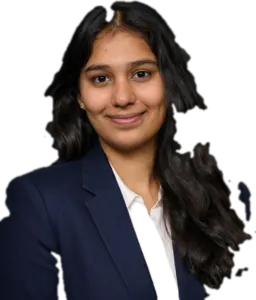
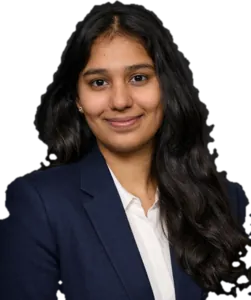
Stop the cut-out eating her hair
The background removal keyed on colour, and colour cannot separate
these two: the studio backdrop sits at luminance 11-26 and her hair at
3-57, so the ranges overlap almost completely. The fill walked into the
hair and took chunks out of it.

Three tests now have to agree before a pixel counts as backdrop:

  neutral  grey backdrop vs navy blazer and warm skin
  dark     capped at 70, which also stopped a leak into the white shirt
  smooth   backdrop roughness measures 1-2, hair 4-27 - this is the one
           that actually saves the hair

A close pass tidies the remaining nicks. Saved as tools-make-cutout.py
so the cut-out can be regenerated rather than being a one-off file.

diff --git a/tools-make-cutout.py b/tools-make-cutout.py
@@ -1,0 +1,82 @@
+# -*- coding: utf-8 -*-
+"""Lift the subject out of images/user.jpg into a transparent cut-out.
+
+Colour alone cannot do it: the studio backdrop (luminance 11-26) and her
+hair (3-57) overlap almost entirely. Three tests together can -
+
+  neutral   the backdrop is grey; the blazer is navy and skin is warm
+  dark      the backdrop never exceeds ~26, so a cap keeps the white
+            shirt out of the fill
+  smooth    the backdrop is a smooth gradient (roughness 1-2) while hair
+            is textured (4-27), which is what saves the hair
+
+Run: python3 tools-make-cutout.py   ->  images/kanishka-cutout.webp
+"""
+import collections
+import os
+
+from PIL import Image, ImageFilter
+
+HERE = os.path.dirname(os.path.abspath(__file__))
+SRC = os.path.join(HERE, "images", "user.jpg")
+DST = os.path.join(HERE, "images", "kanishka-cutout.webp")
+
+TOL = 11        # how far the fill may step in one move
+MAX_LUM = 70    # brighter than this is never backdrop
+MAX_ROUGH = 6   # rougher than this is never backdrop
+
+im = Image.open(SRC).convert("RGB")
+im.thumbnail((520, 520))
+w, h = im.size
+px = im.load()
+
+gray = im.convert("L")
+blur = gray.filter(ImageFilter.GaussianBlur(2.2))
+g, b = gray.load(), blur.load()
+fine = [[abs(g[x, y] - b[x, y]) for y in range(h)] for x in range(w)]
+rough = [[max(fine[min(w - 1, max(0, x + dx))][min(h - 1, max(0, y + dy))]
+              for dx in (-2, 0, 2) for dy in (-2, 0, 2)) for y in range(h)]
+         for x in range(w)]
+
+
+def backdrop(x, y):
+    r, gg, bb = px[x, y]
+    return (max(r, gg, bb) - min(r, gg, bb) <= 20 and abs(r - bb) <= 16
+            and g[x, y] <= MAX_LUM and rough[x][y] <= MAX_ROUGH)
+
+
+bg = bytearray(w * h)
+q = collections.deque()
+for x in range(w):
+    for y in (0, h - 1):
+        if backdrop(x, y) and not bg[y * w + x]:
+            bg[y * w + x] = 1
+            q.append((x, y))
+for y in range(h):
+    for x in (0, w - 1):
+        if backdrop(x, y) and not bg[y * w + x]:
+            bg[y * w + x] = 1
+            q.append((x, y))
+
+while q:
+    x, y = q.popleft()
+    r0, g0, b0 = px[x, y]
+    for dx, dy in ((1, 0), (-1, 0), (0, 1), (0, -1)):
+        nx, ny = x + dx, y + dy
+        if 0 <= nx < w and 0 <= ny < h and not bg[ny * w + nx]:
+            r, gg, bb = px[nx, ny]
+            if abs(r - r0) + abs(gg - g0) + abs(bb - b0) < TOL and backdrop(nx, ny):
+                bg[ny * w + nx] = 1
+                q.append((nx, ny))
+
+mask = Image.frombytes("L", (w, h), bytes(255 if not v else 0 for v in bg))
+mask = mask.filter(ImageFilter.MaxFilter(5)).filter(ImageFilter.MinFilter(5))
+mask = mask.filter(ImageFilter.MedianFilter(5)).filter(ImageFilter.GaussianBlur(0.9))
+
+out = im.convert("RGBA")
+out.putalpha(mask)
+out = out.crop(mask.point(lambda v: 255 if v > 40 else 0).getbbox())
+out.thumbnail((300, 300))
+out.save(DST, quality=80, method=6)
+print("wrote %s %s (%dKB)"
+      % (os.path.relpath(DST, HERE), out.size, os.path.getsize(DST) // 1024))
